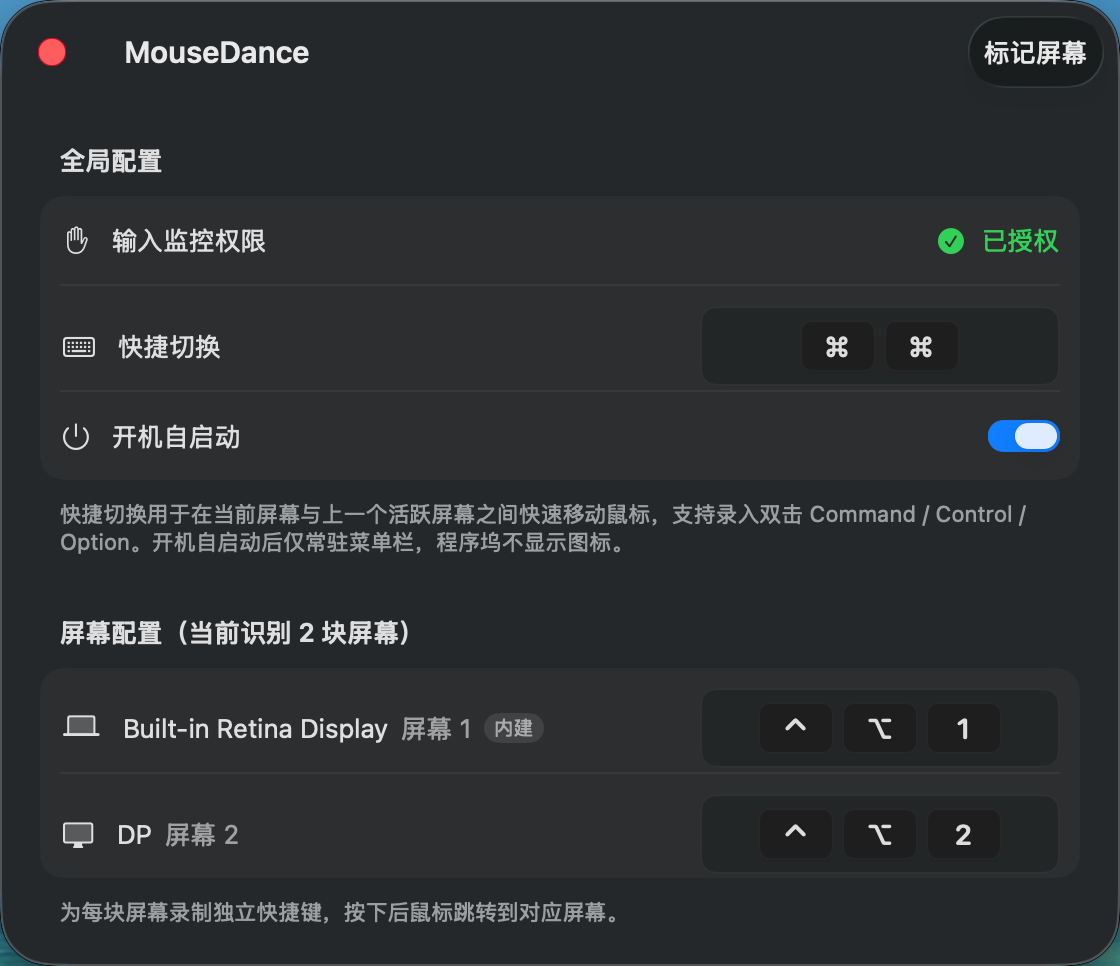
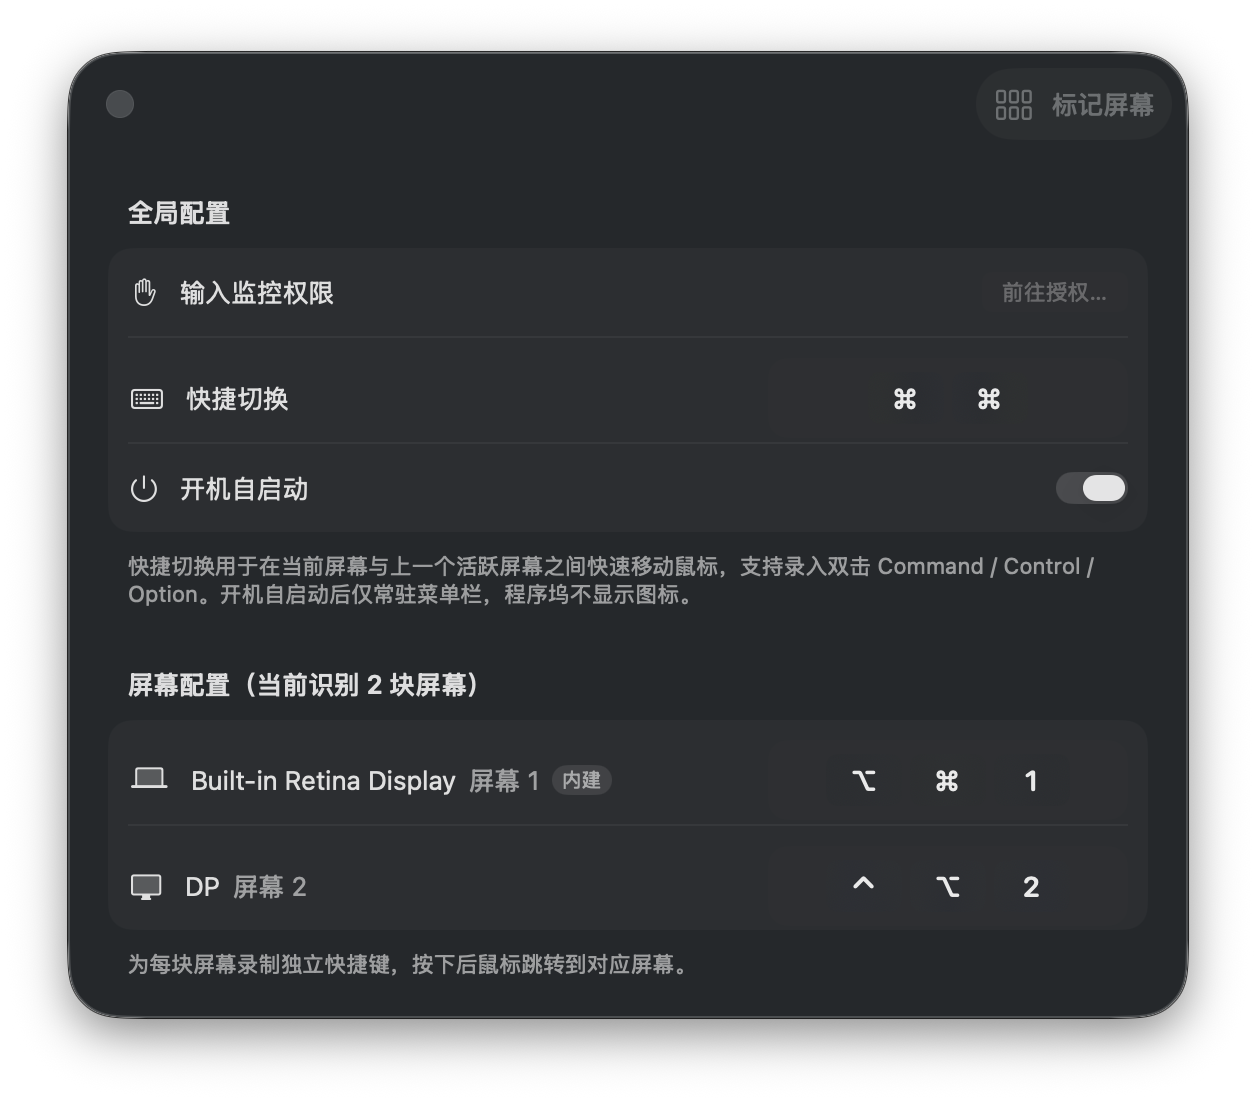
feat: 适配液态玻璃设计并更新应用图标与文档
- 重构所有界面以遵循 macOS Tahoe 液态玻璃设计规范
- 替换旧版Xcode应用图标集为分层玻璃质感SVG图标
- 将系统最低支持版本更新至 macOS 26 (Tahoe)
- 优化设置页面工具栏、快捷键录制器与按钮的UI样式
- 更新项目文档与首页横幅的相关配置

diff --git a/MouseDance/ShortcutRecorderView.swift b/MouseDance/ShortcutRecorderView.swift
@@ -279,31 +279,32 @@ struct ShortcutEventRepresentable: NSViewRepresentable {
 struct KeyCapView: View {
     let text: String
     let isActive: Bool
-    
+
     var body: some View {
         Text(text)
             .font(.system(size: 14, weight: .semibold, design: .rounded))
-            .foregroundColor(isActive ? .accentColor : .primary)
+            .foregroundStyle(isActive ? Color.accentColor : .primary)
             .frame(minWidth: 26, minHeight: 26)
             .padding(.horizontal, 6)
+            .background(.thickMaterial, in: .rect(cornerRadius: 6, style: .continuous))
             .background(
-                RoundedRectangle(cornerRadius: 6, style: .continuous)
-                    .fill(isActive ? Color.accentColor.opacity(0.15) : Color(NSColor.controlBackgroundColor))
+                Color.accentColor.opacity(isActive ? 0.2 : 0),
+                in: .rect(cornerRadius: 6, style: .continuous)
             )
-            .overlay(
-                RoundedRectangle(cornerRadius: 6, style: .continuous)
-                    .strokeBorder(isActive ? Color.accentColor.opacity(0.5) : Color(NSColor.separatorColor).opacity(0.4), lineWidth: 1)
-            )
-            .shadow(color: Color.black.opacity(isActive ? 0 : 0.05), radius: 1, x: 0, y: 1)
     }
 }
 
 struct ShortcutRecorderView: View {
     @Binding var shortcut: ShortcutKey?
     @Binding var isRecording: Bool
-    
+
     @State private var currentModifiers: ModifierMask? = nil
-    @State private var isHovered = false
+
+    /// 录制时为玻璃着色 accent，交互态玻璃自带悬停反馈
+    private var wellGlass: Glass {
+        let base = Glass.regular.interactive()
+        return isRecording ? base.tint(Color.accentColor.opacity(0.35)) : base
+    }
 
     var body: some View {
         ZStack {
@@ -314,7 +315,7 @@ struct ShortcutRecorderView: View {
                 currentModifiers: $currentModifiers
             )
             .frame(maxWidth: .infinity, maxHeight: .infinity)
-            
+
             // Visual overlay
             HStack(spacing: 4) {
                 if isRecording {
@@ -326,7 +327,7 @@ struct ShortcutRecorderView: View {
                     }
                     Text("按下按键...")
                         .font(.system(size: 13, weight: .medium))
-                        .foregroundColor(.accentColor)
+                        .foregroundStyle(Color.accentColor)
                         .padding(.horizontal, 4)
                         .opacity(0.8)
                 } else if let shortcut = shortcut {
@@ -337,30 +338,17 @@ struct ShortcutRecorderView: View {
                 } else {
                     Text("点击录制")
                         .font(.system(size: 13, weight: .medium))
-                        .foregroundColor(.secondary)
+                        .foregroundStyle(.secondary)
                         .padding(.horizontal, 4)
                 }
             }
             .padding(6)
             .frame(maxWidth: .infinity, minHeight: 40, alignment: .center)
-            .background(
-                RoundedRectangle(cornerRadius: 8, style: .continuous)
-                    .fill(isRecording ? Color.accentColor.opacity(0.1) : Color(NSColor.windowBackgroundColor).opacity(0.5))
-            )
-            .overlay(
-                RoundedRectangle(cornerRadius: 8, style: .continuous)
-                    .strokeBorder(isRecording ? Color.accentColor.opacity(0.8) : Color(NSColor.separatorColor).opacity(0.5), lineWidth: isRecording ? 2 : 1)
-            )
-            .shadow(color: isRecording ? Color.accentColor.opacity(0.3) : Color.black.opacity(0.05), radius: isRecording ? 4 : 2, x: 0, y: 1)
-            .scaleEffect(isHovered && !isRecording ? 1.02 : 1.0)
-            .animation(.spring(response: 0.3, dampingFraction: 0.6), value: isHovered)
+            .glassEffect(wellGlass, in: .rect(cornerRadius: 10, style: .continuous))
             .animation(.easeInOut(duration: 0.2), value: isRecording)
             .animation(.easeInOut(duration: 0.2), value: currentModifiers)
             .animation(.easeInOut(duration: 0.2), value: shortcut)
             .allowsHitTesting(false) // Let clicks pass through to ShortcutEventRepresentable
-        }
-        .onHover { hovering in
-            isHovered = hovering
         }
     }
 }

diff --git a/MouseDance/ContentView.swift b/MouseDance/ContentView.swift
@@ -63,10 +63,14 @@ struct ContentView: View {
         .frame(width: 560)
         .fixedSize(horizontal: false, vertical: true)
         .toolbar {
+            ToolbarSpacer(.flexible, placement: .primaryAction)
             ToolbarItem(placement: .primaryAction) {
-                Button("标记屏幕") {
+                Button {
                     store.relabelScreens()
+                } label: {
+                    Label("标记屏幕", systemImage: "rectangle.grid.3x2")
                 }
+                .labelStyle(.titleAndIcon)
                 .help("在每一块屏幕上显示其编号与快捷键")
             }
         }
@@ -86,10 +90,15 @@ struct ContentView: View {
                 Label("已授权", systemImage: "checkmark.circle.fill")
                     .foregroundStyle(.green)
                     .labelStyle(.titleAndIcon)
+                    .padding(.horizontal, 10)
+                    .padding(.vertical, 3)
+                    .background(.green.opacity(0.12), in: .capsule)
             } else {
                 Button("前往授权…") {
                     store.requestInputMonitoringAccess()
                 }
+                .buttonStyle(.glassProminent)
+                .controlSize(.small)
             }
         }
         .frame(height: 24)

diff --git a/docs/docs/.vuepress/components/landing/HeroSection.vue b/docs/docs/.vuepress/components/landing/HeroSection.vue
@@ -19,7 +19,7 @@ import { withBase } from 'vuepress/client'
     <div class="md-container hero-content">
       <div class="hero-badge md-rise" style="animation-delay: 0.05s">
         <span class="hero-badge-dot"></span>
-        macOS 14+ · 常驻菜单栏 · 免费开源
+        macOS 26+ · 常驻菜单栏 · 免费开源
       </div>
 
       <img

diff --git a/MouseDance/MouseDanceApp.swift b/MouseDance/MouseDanceApp.swift
@@ -25,7 +25,7 @@ struct MouseDanceApp: App {
                 }
         }
         .defaultLaunchBehavior(appDelegate.launchedAsLoginItem ? .suppressed : .automatic)
-        .windowStyle(.titleBar)
+        .windowStyle(.hiddenTitleBar)
         .windowToolbarStyle(.unified)
         .windowResizability(.contentSize)
 

diff --git a/README.md b/README.md
@@ -6,6 +6,8 @@
 
 一款常驻菜单栏的 macOS 小工具：为多显示器用户的每一块屏幕配置独立快捷键，按下快捷键即可让鼠标瞬间"跳舞"到目标屏幕中央。
 
+界面全面采用 macOS Tahoe 液态玻璃（Liquid Glass）设计，图标经 Icon Composer 分层打造，随系统外观呈现玻璃立体质感。
+
 ## 功能特性
 
 - **多屏快捷键跳转**：为每一块屏幕单独录制快捷键，按下后鼠标立即跳转到对应屏幕
@@ -14,10 +16,11 @@
 - **屏幕标记**：一键在所有屏幕上叠加显示编号与已配置的快捷键，方便确认
 - **开机自启动**：登录系统后自动常驻菜单栏运行，程序坞不显示图标
 - **菜单栏快捷操作**：菜单栏图标可直接跳转到指定屏幕、查看权限与自启动状态
+- **液态玻璃界面**：设置窗口、快捷键录制器与菜单均遵循 macOS Tahoe 设计规范，支持深浅色外观与"降低透明度"辅助功能降级
 
 ## 系统要求
 
-- macOS 14 或更高版本
+- macOS 26 (Tahoe) 或更高版本
 
 ## 截图示例
 

diff --git a/docs/docs/get-started.md b/docs/docs/get-started.md
@@ -4,8 +4,12 @@
 
 ## 系统要求
 
-- macOS 14 或更高版本
+- macOS 26 (Tahoe) 或更高版本
 - 一台及以上外接显示器（单屏用户也可以使用"快捷切换"以外的功能，但多屏体验最佳）
+
+::: tip 液态玻璃界面
+MouseDance 的设置窗口、快捷键录制器与菜单均遵循 macOS Tahoe 液态玻璃（Liquid Glass）设计规范，随系统深浅色外观自动适配。
+:::
 
 ## 1. 下载与安装
 
